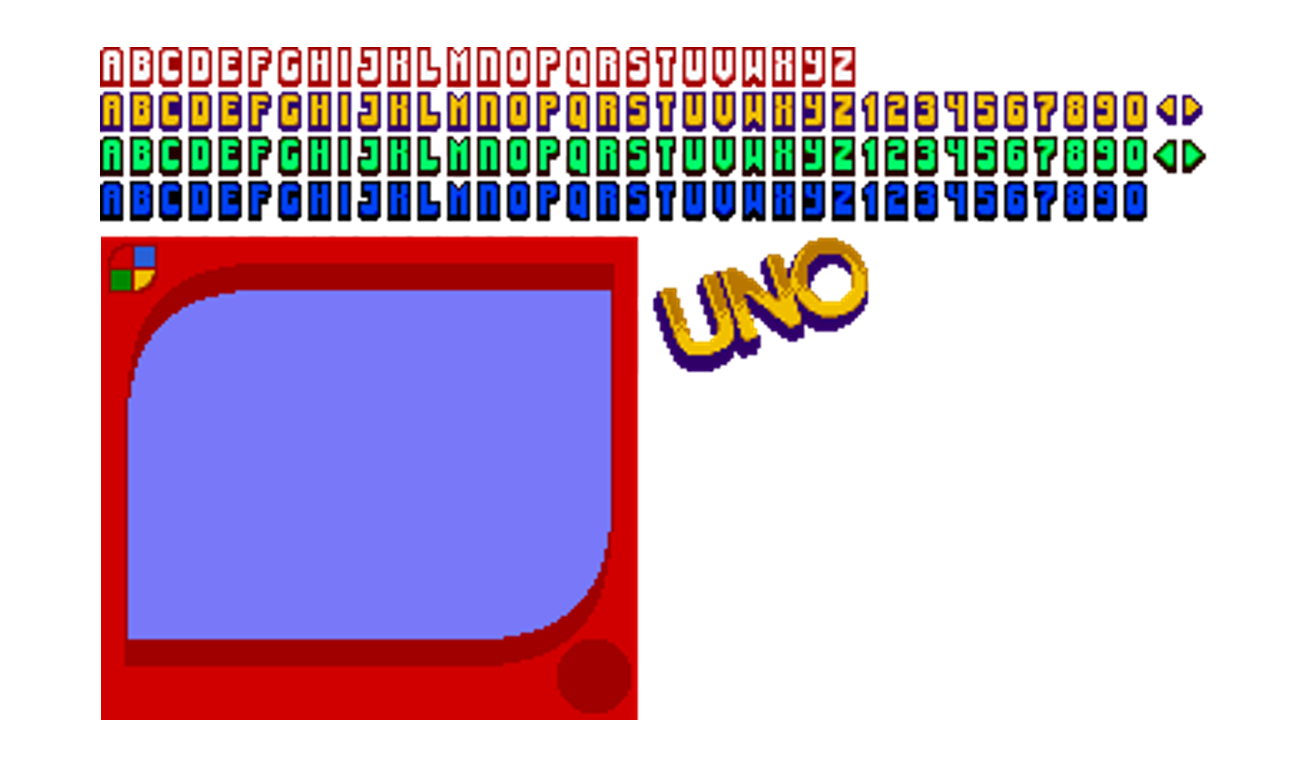
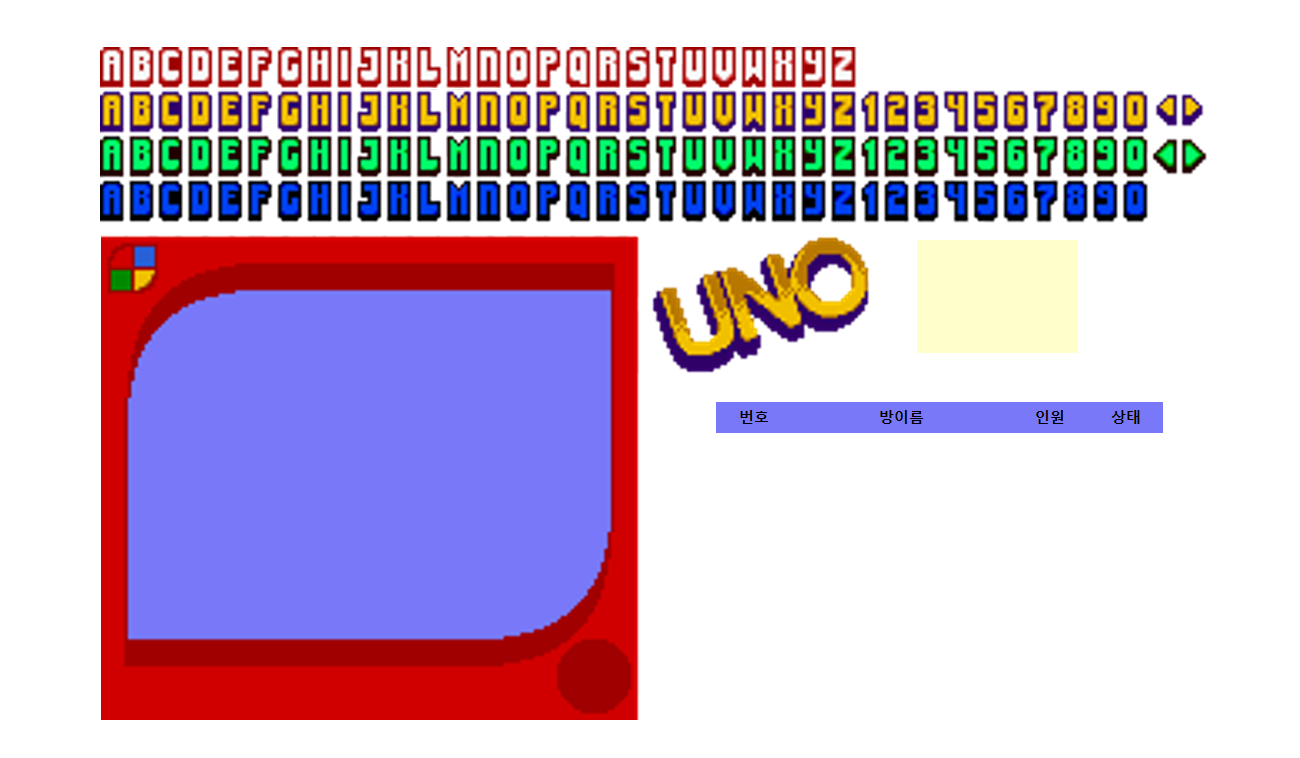
NameScene, LobbyScene Update

Changed region(s): [[0.7077, 0.3034, 0.8308, 0.4855], [0.5538, 0.5158, 0.8923, 0.5765]]

diff --git a/UNO/LobbyScene.cpp b/UNO/LobbyScene.cpp
@@ -6,7 +6,11 @@
 
 typedef CResourceManager::eBitmap bitmap_t;
 
-CLobbyScene::CLobbyScene() : m_bOK(0)
+CLobbyScene::CLobbyScene()
+	: m_bOK(0), m_okRect({ 670 , 600, 740, 670 }), m_bordRect({ 0, 0, 770, 695 }),
+	m_roomRect({ 50.0f, 50.0f, 500.0f, 400.0f }), m_userRect({ 501.0f, 50.0f, 710.0f, 400.0f }),
+	m_chatRect({ 50.0f, 401.0f, 500.0f, 650.0f }), m_numTextSize(3), m_roomNameTextSize(8),
+	m_stateTextSize(5)
 {
 }
 
@@ -17,19 +21,52 @@ CLobbyScene::~CLobbyScene()
 void CLobbyScene::Awake()
 {
 	CResourceManager* pRM = CResourceManager::GetInstance();
-	m_target = new targetList_t[MAX];
-	m_pBitmap = pRM->GetBitmap(bitmap_t::MENU_AND_TEXT);
-	m_pOkBitmap = pRM->GetBitmap(bitmap_t::ICON_OK);
-	m_pRedBrush = *pRM->GetRedBrush();
-	m_sprite = pRM->GetSprite();
+	ID2D1Bitmap* pBitmap = pRM->GetBitmap(bitmap_t::MENU_AND_TEXT);
+	ID2D1Bitmap* pBitmapOK = pRM->GetBitmap(bitmap_t::ICON_OK);
+	CResourceManager::spriteList_t* sprite = pRM->GetSprite();
+	m_pRedBrush = *pRM->GetBlackBrush();
 
 	//background
-	m_target[BACKGROUND].reserve(1);
-	m_target[BACKGROUND].push_back({ 0, 0, 770, 695 });
+	m_pBord = new CObject(sprite[CResourceManager::BORD], pBitmap);
+	m_pBord->SetTarget(m_bordRect);
 
 	//OK icon
-	m_target[OK].reserve(1);
-	m_target[OK].push_back({ 670 , 600, 740, 670 });
+	m_pOk = new CObject(sprite[CResourceManager::OK], pBitmapOK);
+	m_pOk->SetTarget(m_okRect);
+	m_pOk->SetTarget(m_okRect);
+	
+	//Room
+	m_pRoomList = new CObject(sprite[CResourceManager::LOBBY], pBitmap);
+	m_pRoomList->SetTarget(m_roomRect);
+
+	//user
+	m_pUserList = new CObject(sprite[CResourceManager::LOBBY], pBitmap);
+	m_pUserList->SetTarget(m_userRect);
+
+	//chatting
+	m_pChatting = new CObject(sprite[CResourceManager::LOBBY], pBitmap);
+	m_pChatting->SetTarget(m_chatRect);
+
+	//num text
+	m_pNumText = new CObject(sprite[CResourceManager::NUM], pBitmap);
+	for (int i = 0; i < m_numTextSize; i++)
+	{
+		m_pNumText->SetTarget({ 65.0f + (i * 15), 55.0f, 85.0f + (i * 15), 75.0f });
+	}
+	
+	//room name text
+	m_pRoomNameText = new CObject(sprite[CResourceManager::ROOMNAME], pBitmap);
+	for (int i = 0; i < m_roomNameTextSize; i++)
+	{
+		m_pRoomNameText->SetTarget({ 200.0f + (i * 15), 55.0f, 220.0f + (i * 15), 75.0f });
+	}
+
+	//state text
+	m_pStateText = new CObject(sprite[CResourceManager::STATE], pBitmap);
+	for (int i = 0; i < m_stateTextSize; i++)
+	{
+		m_pStateText->SetTarget({ 400.0f + (i * 15), 55.0f, 420.0f + (i * 15), 75.0f });
+	}
 }
 
 void CLobbyScene::Start()
@@ -38,6 +75,7 @@ void CLobbyScene::Start()
 
 void CLobbyScene::Update()
 {
+	
 }
 
 void CLobbyScene::Render(ID2D1HwndRenderTarget* _pRT)
@@ -46,12 +84,18 @@ void CLobbyScene::Render(ID2D1HwndRenderTarget* _pRT)
 
 	_pRT->BeginDraw();
 
-	m_sprite[CResourceManager::BORD].at(0).Render(_pRT, m_pBitmap, m_target[BACKGROUND].at(0), 1.0f);
+	// background
+	m_pBord->Render(_pRT, 0, 1.0f);
 
-	//_pRT->DrawRectangle({ 50.0f, 80.0f, 300.0f, 260.0f }, m_pRedBrush);
+	m_pRoomList->Render(_pRT, 0, 1.0f);
+	m_pUserList->Render(_pRT, 0, 1.0f);
+	m_pChatting->Render(_pRT, 0, 1.0f);
+	m_pNumText->Render(_pRT, 1.0f);
+	m_pRoomNameText->Render(_pRT, 1.0f);
+	m_pStateText->Render(_pRT, 1.0f);
 
 	// ok icon
-	m_sprite[CResourceManager::OK].at(m_bOK).Render(_pRT, m_pOkBitmap, m_target[OK].at(0), 1.0f);
+	m_pOk->Render(_pRT, m_bOK, 1.0f);
 	m_bOK = 0;
 
 	_pRT->EndDraw();
@@ -59,4 +103,10 @@ void CLobbyScene::Render(ID2D1HwndRenderTarget* _pRT)
 
 void CLobbyScene::Destroy()
 {
+	if (m_pStateText) { delete m_pStateText; m_pStateText = nullptr; }
+	if (m_pRoomNameText) { delete m_pRoomNameText; m_pRoomNameText = nullptr; }
+	if (m_pNumText) { delete m_pNumText; m_pNumText = nullptr; }
+	if (m_pRoomList) { delete m_pRoomList; m_pRoomList = nullptr; }
+	if (m_pOk) { delete m_pOk; m_pOk = nullptr; }
+	if (m_pBord) { delete m_pBord; m_pBord = nullptr; }
 }

diff --git a/UNO/TitleScene.cpp b/UNO/TitleScene.cpp
@@ -3,8 +3,10 @@
 
 #define STR_MAX 20
 
-CTitleScene::CTitleScene() : m_bOnRender(true), m_tick(0), m_backGroundRect({ 104, 80, 105, 81 }),
-m_logoRect({ 652, 236, 870, 373 })
+CTitleScene::CTitleScene()
+	: m_bOnRender(true), m_tick(0), 
+	m_logoRect({ 652, 236, 870, 373 }), m_logoTargetRect({ 100, 30, 670, 430 }),
+	m_backGroundRect({ 104, 80, 105, 81 }), m_backGroundTargetRect({ 0, 0, 770, 695 })
 {
 
 }
@@ -16,26 +18,29 @@ CTitleScene::~CTitleScene()
 void CTitleScene::Awake()
 {
 	CResourceManager* pRM = CResourceManager::GetInstance();
-	m_sprite = pRM->GetSprite();
-	m_pBitmap = pRM->GetBitmap(bitmap_t::MENU_AND_TEXT);
-	m_str = new int[STR_MAX];
-	m_target = new targetList_t[MAX];
+	ID2D1Bitmap* pBitmap = pRM->GetBitmap(bitmap_t::MENU_AND_TEXT);
+	CResourceManager::spriteList_t* sprite = pRM->GetSprite();
+
+	//background
+	m_pBackground = new CObject(new CSprite(m_backGroundRect), pBitmap);
+	m_pBackground->SetTarget(m_backGroundTargetRect);
+
+	//logo
+	m_pLogo = new CObject(new CSprite(m_logoRect), pBitmap);
+	m_pLogo->SetTarget(m_logoTargetRect);
 
 	// text
+	m_pRedText = new CObject(sprite[CResourceManager::RED], pBitmap);
 	char str[] = { "A KEY START" };
 	int size = sizeof(str) - 1;
+	m_pTextArr = new int[size];
 	int count = 0;
-	m_target[TEXT].reserve(size);
 	for (int i = 0; i < size; i++)
 	{
 		if (str[i] - 'A' < 0) continue;
-		m_str[count++] = str[i] - 'A';
-		m_target[TEXT].push_back({ 120.0f + (i * 50), 550.0f, 160.0f + (i * 50), 600.0f });
-		m_titleSize++;
+		m_pTextArr[count++] = str[i] - 'A';
+		m_pRedText->SetTarget({ 120.0f + (i * 50), 550.0f, 160.0f + (i * 50), 600.0f });
 	}
-
-	m_target[LOGO].push_back({ 100, 30, 670, 430 });
-	m_target[BACKGROUND].push_back({ 0, 0, 770, 695 });
 }
 
 void CTitleScene::Start()
@@ -65,19 +70,14 @@ void CTitleScene::Render(ID2D1HwndRenderTarget* _pRT)
 	_pRT->BeginDraw();
 
 	// background
-	_pRT->DrawBitmap(pRM->GetBitmap(bitmap_t::MENU_AND_TEXT),
-		m_target[BACKGROUND].at(0), 1, D2D1_BITMAP_INTERPOLATION_MODE_LINEAR, m_backGroundRect);
+	m_pBackground->Render(_pRT, 0, 1.0f);
 
 	// LOGO
-	_pRT->DrawBitmap(pRM->GetBitmap(bitmap_t::MENU_AND_TEXT),
-		m_target[LOGO].at(0), 1, D2D1_BITMAP_INTERPOLATION_MODE_LINEAR, m_logoRect);
+	m_pLogo->Render(_pRT, 0, 1.0f);
 
 	if (m_bOnRender)
 	{
-		for (int i = 0; i < m_titleSize; i++)
-		{
-			m_sprite[CResourceManager::RED].at(m_str[i]).Render(_pRT, m_pBitmap, m_target[TEXT].at(i), 1.0f);
-		}
+		m_pRedText->Render(_pRT, m_pTextArr, 1.0f);
 	}
 
 	_pRT->EndDraw();
@@ -85,5 +85,8 @@ void CTitleScene::Render(ID2D1HwndRenderTarget* _pRT)
 
 void CTitleScene::Destroy()
 {
-	if (m_str) { delete m_str; m_str = nullptr; }
+	if (m_pTextArr) { delete[] m_pTextArr; m_pTextArr = nullptr; }
+	if (m_pRedText) { delete m_pRedText; m_pRedText = nullptr; }
+	if (m_pLogo) { delete m_pLogo; m_pLogo = nullptr; }
+	if (m_pBackground) { delete m_pBackground; m_pBackground = nullptr; }
 }

diff --git a/UNO/NameScene.h b/UNO/NameScene.h
@@ -25,20 +25,15 @@ private:
 	ID2D1SolidColorBrush* m_pRedBrush;
 	D2D1_POINT_2F m_rectangle;
 	D2D1_RECT_F m_barRect;
-	targetList_t* m_target;
+	D2D1_RECT_F m_okRect;
 
-	CObject* m_bord;
-	CObject* m_yellowSpelling;
-	CObject* m_blueSpelling;
-	CObject* m_title;
-	CObject* m_bar;
-	CObject* m_ok;
-	CObject* m_name;
-
-	ID2D1Bitmap* m_pBitmap;
-	ID2D1Bitmap* m_pOkBitmap;
-
-	CResourceManager::spriteList_t* m_sprite;
+	CObject* m_pBord;
+	CObject* m_pYellowSpelling;
+	CObject* m_pBlueSpelling;
+	CObject* m_pTitle;
+	CObject* m_pBar;
+	CObject* m_pName;
+	CObject* m_pOk;
 
 	unsigned int m_spellingSize;
 	unsigned int m_widthMax;
@@ -47,10 +42,11 @@ private:
 	unsigned int m_currentSpelling;
 	unsigned int m_nameSize;
 	unsigned int m_titleSize;
-
+	unsigned int m_bufferCount;
 
 	char* m_pBuffer; // test
-	int m_bufferCount;
+	int* m_pTextArr;
+	int* m_pNameArr;
 
 public:
 	CNameScene();

diff --git a/UNO/LobbyScene.h b/UNO/LobbyScene.h
@@ -1,5 +1,6 @@
 #pragma once
 #include "Scene.h"
+#include "Object.h"
 #include "ResourceManager.h"
 
 class CLobbyScene : public CScene
@@ -17,11 +18,27 @@ private:
 	ID2D1SolidColorBrush* m_pRedBrush;
 	ID2D1Bitmap* m_pBitmap;
 	ID2D1Bitmap* m_pOkBitmap;
-	targetList_t* m_target;
 
-	CResourceManager::spriteList_t* m_sprite;
-	
+	CObject* m_pBord;
+	CObject* m_pOk;
+	CObject* m_pRoomList;
+	CObject* m_pUserList;
+	CObject* m_pChatting;
+	CObject* m_pNumText;
+	CObject* m_pRoomNameText;
+	CObject* m_pStateText;
+
+	D2D1_RECT_F m_okRect;
+	D2D1_RECT_F m_bordRect;
+	D2D1_RECT_F m_roomRect;
+	D2D1_RECT_F m_userRect;
+	D2D1_RECT_F m_chatRect;
+
 	unsigned int m_bOK;
+
+	unsigned int m_numTextSize;
+	unsigned int m_roomNameTextSize;
+	unsigned int m_stateTextSize;
 
 public:
 	CLobbyScene();

diff --git a/UNO/Object.h b/UNO/Object.h
@@ -18,9 +18,12 @@ public:
 	CObject(spriteList_t _sprite, ID2D1Bitmap* _bitmap);
 	CObject(CSprite* _sprite, ID2D1Bitmap* _bitmap);
 
+	void Render(ID2D1HwndRenderTarget* _pRT);
 	void Render(ID2D1HwndRenderTarget* _pRT, float _alpha);
 	void Render(ID2D1HwndRenderTarget* _pRT, int _index, float _alpha);
-	void Render(ID2D1HwndRenderTarget* _pRT);
+	void Render(ID2D1HwndRenderTarget* _pRT, int* _index, float _alpha);
+	void Render(ID2D1HwndRenderTarget* _pRT, int* _index, int _size, float _alpha);
+
 	void SetTarget(D2D1_RECT_F _target);
 private:
 };

diff --git a/UNO/TitleScene.h b/UNO/TitleScene.h
@@ -1,5 +1,6 @@
 #pragma once
 #include "Scene.h"
+#include "Object.h"
 #include "ResourceManager.h"
 
 class CTitleScene : public CScene
@@ -17,12 +18,18 @@ public:
 	};
 
 private:
-	CResourceManager::spriteList_t* m_sprite;
 	ID2D1Bitmap* m_pBitmap;
-	targetList_t* m_target;
+
+	CObject* m_pBackground;
+	CObject* m_pLogo;
+	CObject* m_pRedText;
+
+	int* m_pTextArr;
+
 	D2D1_RECT_F m_logoRect;
+	D2D1_RECT_F m_logoTargetRect;
 	D2D1_RECT_F m_backGroundRect;
-	int* m_str;
+	D2D1_RECT_F m_backGroundTargetRect;
 
 	int m_titleSize;
 	int m_bOnRender;

diff --git a/UNO/ResourceManager.cpp b/UNO/ResourceManager.cpp
@@ -43,7 +43,6 @@ void CResourceManager::Cleanup()
 
 void CResourceManager::SetSprite(CSprite* _sprite, int _size, int _index)
 {
-	
 	m_sprite[_index].reserve(_size);
 	for (int i = 0; i < _size; i++)
 	{
